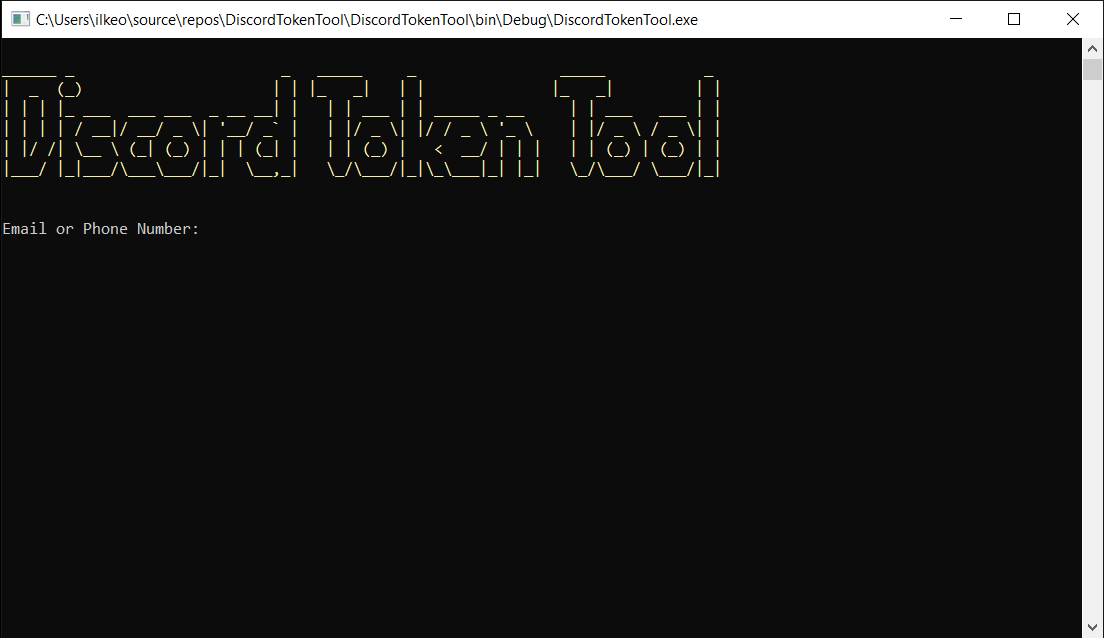
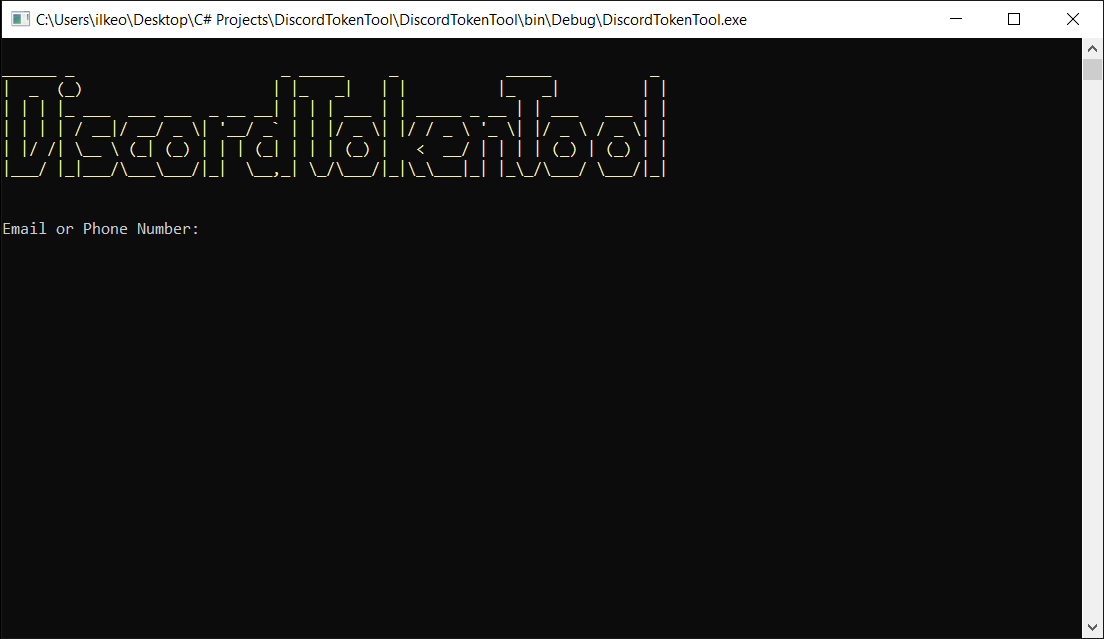
Add project files.

diff --git a/DiscordTokenTool/Program.cs b/DiscordTokenTool/Program.cs
@@ -14,13 +14,13 @@ namespace DiscordTokenTool
         {
             Console.ForegroundColor = ConsoleColor.Yellow;
             string title = @"
-______ _                       _   _____     _                _____           _ 
-|  _  (_)                     | | |_   _|   | |              |_   _|         | |
-| | | |_ ___  ___ ___  _ __ __| |   | | ___ | | _____ _ __     | | ___   ___ | |
-| | | | / __|/ __/ _ \| '__/ _` |   | |/ _ \| |/ / _ \ '_ \    | |/ _ \ / _ \| |
-| |/ /| \__ \ (_| (_) | | | (_| |   | | (_) |   <  __/ | | |   | | (_) | (_) | |
-|___/ |_|___/\___\___/|_|  \__,_|   \_/\___/|_|\_\___|_| |_|   \_/\___/ \___/|_|
-                                                                                ";
+______ _                       _ _____     _            _____           _ 
+|  _  (_)                     | |_   _|   | |          |_   _|         | |
+| | | |_ ___  ___ ___  _ __ __| | | | ___ | | _____ _ __ | | ___   ___ | |
+| | | | / __|/ __/ _ \| '__/ _` | | |/ _ \| |/ / _ \ '_ \| |/ _ \ / _ \| |
+| |/ /| \__ \ (_| (_) | | | (_| | | | (_) |   <  __/ | | | | (_) | (_) | |
+|___/ |_|___/\___\___/|_|  \__,_| \_/\___/|_|\_\___|_| |_\_/\___/ \___/|_|
+                                                                          ";
             Console.WriteLine(title);
             Console.ResetColor();
 
